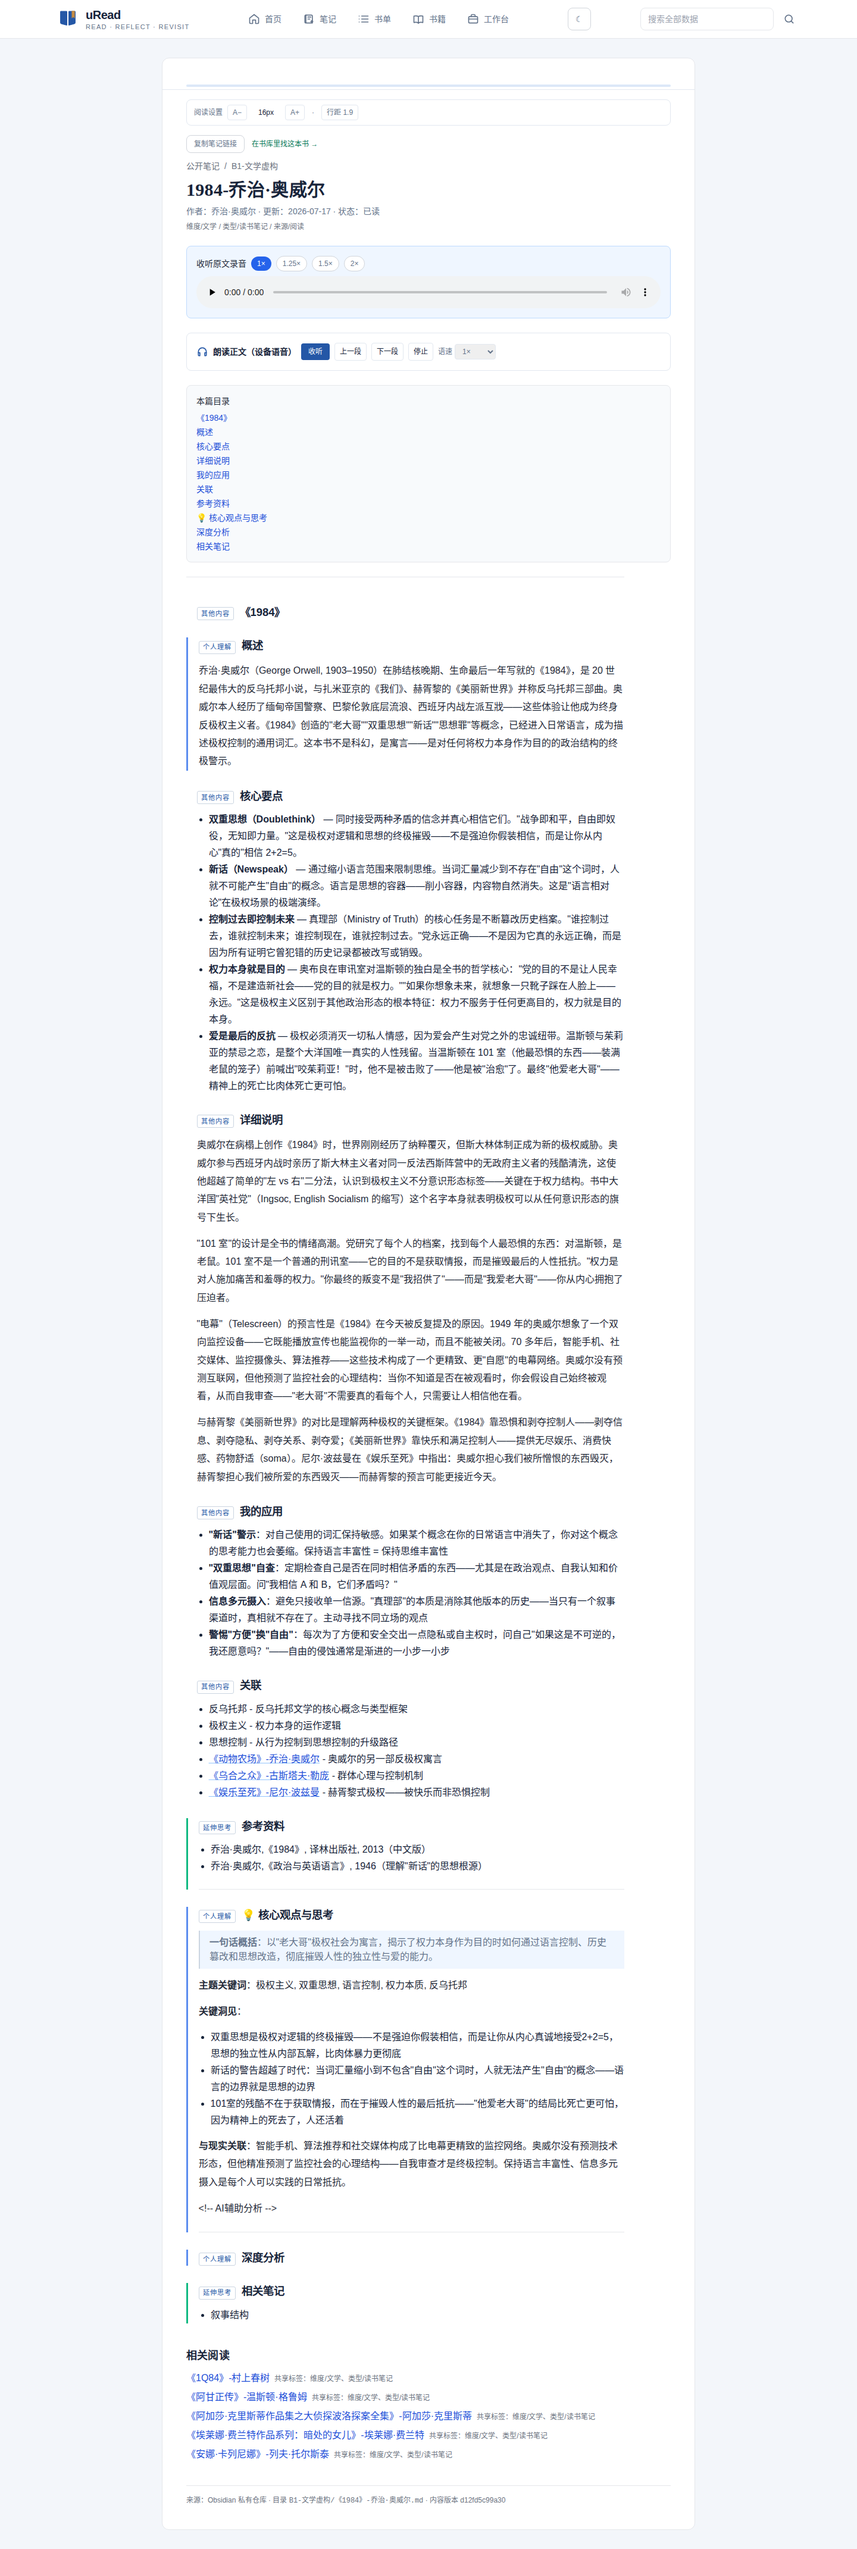
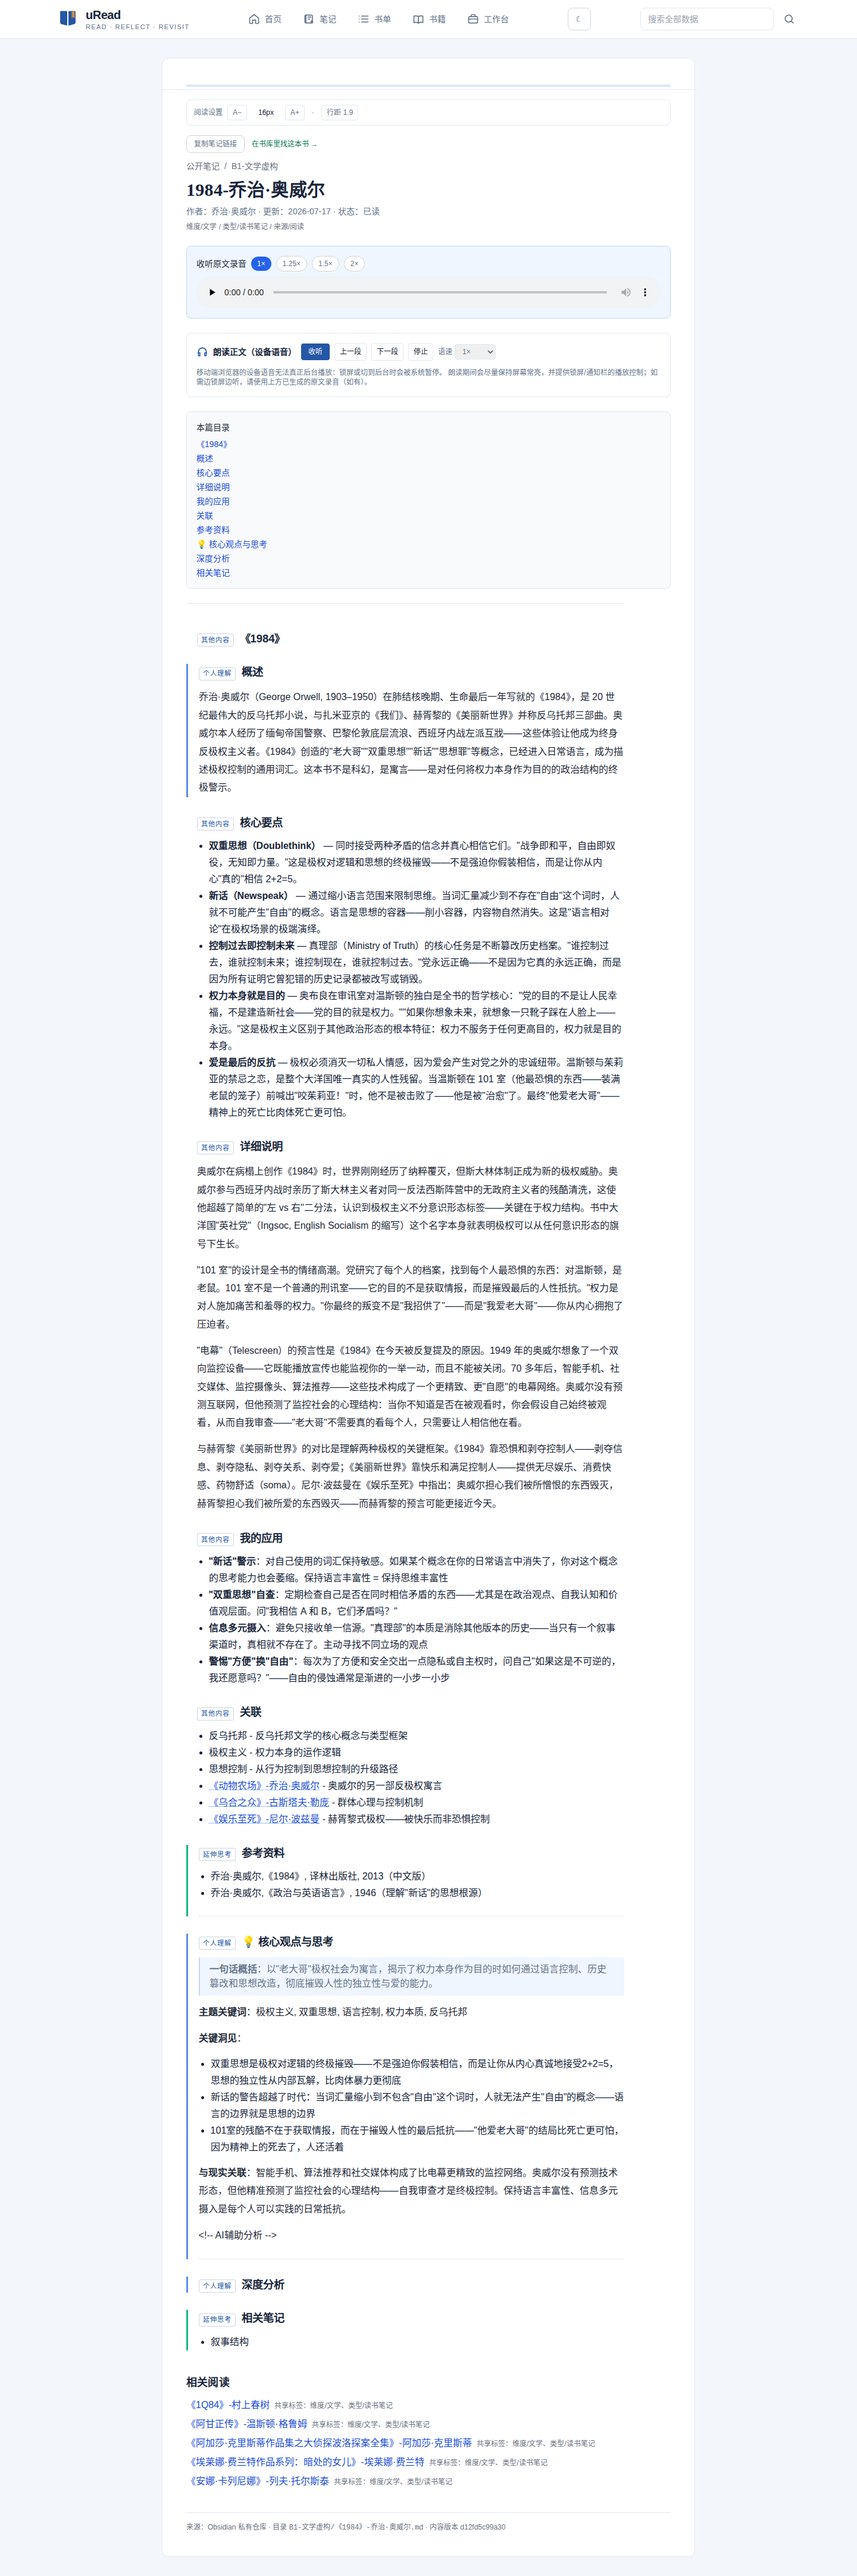
fix: 暗色阅读补齐深色映射；朗读申请屏幕常亮与媒体会话控制

Changed region(s): [[0.2188, 0.0311, 0.7188, 0.9937]]

diff --git a/src/hooks/useSpeechPlayer.ts b/src/hooks/useSpeechPlayer.ts
@@ -6,27 +6,135 @@ import { NativeSpeechEngine } from '../services/speech/NativeSpeechEngine';
 const KEY = 'uread:listen:settings:v1';
 
 interface Settings { rate: number; voice: string; }
+type WakeLockLike = { release: () => Promise<void>; addEventListener?: (type: string, listener: () => void) => void };
+type PlayerState = 'idle' | 'playing' | 'paused' | 'completed' | 'error';
 
-export function useSpeechPlayer(body: string, contentKey: string) {
+export function useSpeechPlayer(body: string, contentKey: string, title = '') {
   const [capabilities] = useState<SpeechCapabilities>(() => detectSpeechCapabilities());
   const [settings, setSettings] = useState<Settings>(() => {
     try { return { rate: 1, voice: '', ...JSON.parse(localStorage.getItem(KEY) ?? '{}') }; }
     catch { return { rate: 1, voice: '' }; }
   });
-  const [state, setState] = useState<'idle' | 'playing' | 'paused' | 'completed' | 'error'>('idle');
+  const [state, setState] = useState<PlayerState>('idle');
   const [segment, setSegment] = useState<SpeechSegment | null>(null);
   const [error, setError] = useState('');
   const engineRef = useRef<NativeSpeechEngine | null>(null);
+  const wakeLockRef = useRef<WakeLockLike | null>(null);
+  const playingRef = useRef(false);
   const segments = useMemo(() => segmentForSpeech(body), [body]);
 
   useEffect(() => {
     localStorage.setItem(KEY, JSON.stringify(settings));
   }, [settings]);
 
+  const releaseWakeLock = useCallback(() => {
+    const lock = wakeLockRef.current;
+    wakeLockRef.current = null;
+    if (lock) void lock.release().catch(() => undefined);
+  }, []);
+
+  /**
+   * Web Speech API 在移动端锁屏 / 切后台后会被系统暂停。
+   * 朗读期间申请屏幕常亮：这不是「真正的后台音频」，但能避免一锁屏就停。
+   * 页面被隐藏时浏览器会自动释放 wake lock，回到前台时再申请一次。
+   */
+  const acquireWakeLock = useCallback(async () => {
+    const nav = navigator as Navigator & {
+      wakeLock?: { request: (type: 'screen') => Promise<WakeLockLike> };
+    };
+    if (!nav.wakeLock || wakeLockRef.current) return;
+    try {
+      const lock = await nav.wakeLock.request('screen');
+      wakeLockRef.current = lock;
+      lock.addEventListener?.('release', () => {
+        if (wakeLockRef.current === lock) wakeLockRef.current = null;
+      });
+    } catch {
+      // 隐私模式 / 用户拒绝 / 不支持：不影响朗读本身。
+    }
+  }, []);
+
+  const setMediaState = useCallback((next: PlayerState, activeTitle: string) => {
+    const session = navigator.mediaSession;
+    if (!session) return;
+    try {
+      session.playbackState = next === 'playing' ? 'playing' : next === 'paused' ? 'paused' : 'none';
+    } catch {
+      /* 部分浏览器没有 playbackState */
+    }
+    if (next !== 'idle' && typeof MediaMetadata !== 'undefined') {
+      try {
+        session.metadata = new MediaMetadata({
+          title: activeTitle || 'uRead 朗读',
+          artist: 'uRead · 设备语音朗读',
+          album: 'READ · REFLECT · REVISIT',
+        });
+      } catch {
+        /* metadata 不是必需 */
+      }
+    }
+  }, []);
+
+  const pause = useCallback(() => {
+    engineRef.current?.pause();
+    playingRef.current = false;
+    releaseWakeLock();
+    setMediaState('paused', title);
+  }, [releaseWakeLock, setMediaState, title]);
+
+  const resume = useCallback(() => {
+    engineRef.current?.resume();
+    playingRef.current = true;
+    void acquireWakeLock();
+    setMediaState('playing', title);
+  }, [acquireWakeLock, setMediaState, title]);
+
+  const stop = useCallback(() => {
+    engineRef.current?.stop();
+    playingRef.current = false;
+    releaseWakeLock();
+    setMediaState('idle', title);
+    setState('idle');
+    setSegment(null);
+  }, [releaseWakeLock, setMediaState, title]);
+
+  const next = useCallback(() => engineRef.current?.next(), []);
+  const previous = useCallback(() => engineRef.current?.previous(), []);
+
+  // 锁屏 / 通知栏控制：让暂停、继续、上下段不必回到页面里点。
+  useEffect(() => {
+    const session = navigator.mediaSession;
+    if (!session) return;
+    const actions: Array<[MediaSessionAction, MediaSessionActionHandler]> = [
+      ['play', () => resume()],
+      ['pause', () => pause()],
+      ['stop', () => stop()],
+      ['previoustrack', () => previous()],
+      ['nexttrack', () => next()],
+    ];
+    for (const [action, handler] of actions) {
+      try { session.setActionHandler(action, handler); } catch { /* 不支持的 action 忽略 */ }
+    }
+    return () => {
+      for (const [action] of actions) {
+        try { session.setActionHandler(action, null); } catch { /* 同上 */ }
+      }
+    };
+  }, [next, pause, previous, resume, stop]);
+
+  useEffect(() => {
+    const onVisible = () => {
+      if (document.visibilityState === 'visible' && playingRef.current) void acquireWakeLock();
+    };
+    document.addEventListener('visibilitychange', onVisible);
+    return () => document.removeEventListener('visibilitychange', onVisible);
+  }, [acquireWakeLock]);
+
   useEffect(() => () => {
     engineRef.current?.stop();
     engineRef.current = null;
-  }, [contentKey]);
+    releaseWakeLock();
+  }, [contentKey, releaseWakeLock]);
 
   const ensureEngine = useCallback(() => {
     if (!engineRef.current && capabilities.supported && typeof window !== 'undefined') {
@@ -41,17 +149,21 @@ export function useSpeechPlayer(body: string, contentKey: string) {
     if (!engine) { setError('当前浏览器不支持设备语音朗读'); setState('error'); return; }
     engine.configure(settings);
     engine.play(segments, fromIndex, {
-      onSegment: (next) => setSegment(next),
-      onState: (next) => setState(next),
+      onSegment: (nextSegment) => setSegment(nextSegment),
+      onState: (nextState) => {
+        setState(nextState);
+        playingRef.current = nextState === 'playing';
+        if (nextState === 'playing') {
+          void acquireWakeLock();
+          setMediaState('playing', title);
+        } else {
+          releaseWakeLock();
+          setMediaState(nextState, title);
+        }
+      },
       onError: (message) => { setError(message); setState('error'); },
     });
-  }, [ensureEngine, segments, settings]);
-
-  const pause = useCallback(() => engineRef.current?.pause(), []);
-  const resume = useCallback(() => engineRef.current?.resume(), []);
-  const stop = useCallback(() => { engineRef.current?.stop(); setState('idle'); setSegment(null); }, []);
-  const next = useCallback(() => engineRef.current?.next(), []);
-  const previous = useCallback(() => engineRef.current?.previous(), []);
+  }, [acquireWakeLock, ensureEngine, releaseWakeLock, segments, setMediaState, settings, title]);
 
   return {
     capabilities, settings, setSettings, state, segment, error, segments,

diff --git a/src/index.css b/src/index.css
@@ -136,6 +136,64 @@ body { background-color: var(--theme-page) !important; color: var(--theme-text) 
 .text-gray-600 { color: var(--theme-muted) !important; }
 .border-gray-200 { border-color: var(--theme-line) !important; }
 
+/* 暗色阅读：上一段只覆盖少数几个类，自定义色与常见浅色底仍是白块。
+   主题真相仍是 <meta name="color-scheme">，这里只做 CSS 映射，不加 class/data 属性。 */
+:root:has(> head > meta[name="color-scheme"][content="dark"]) {
+  --brand: #7FB0FF;
+  --ink: #F1F5F9;
+  --body: #CBD5E1;
+  --accent: #E3B072;
+  --page: #0F172A;
+  --line: #334155;
+  --surface: #1E293B;
+  --mist: #16233A;
+
+  .bg-surface,
+  .bg-white,
+  [class*='bg-white'],
+  .bg-gray-50,
+  .bg-gray-100,
+  .bg-mist\/40,
+  .bg-blue-50,
+  .bg-violet-50,
+  .bg-amber-50,
+  .bg-green-50,
+  .bg-red-50 { background-color: #1E293B !important; }
+
+  .bg-page { background-color: #0F172A !important; }
+
+  .text-navy,
+  .text-ink,
+  .text-body,
+  .text-gray-900,
+  .text-gray-800,
+  .text-gray-700,
+  .text-gray-600 { color: #E2E8F0 !important; }
+
+  .text-muted,
+  .text-gray-500 { color: #94A3B8 !important; }
+
+  .text-brand,
+  .text-blue-700,
+  .text-blue-600,
+  .text-violet-700 { color: #8FBCFF !important; }
+
+  .border-border,
+  .border-gray-200,
+  .border-gray-300,
+  .border-mist,
+  .border-blue-200,
+  .border-amber-200,
+  .border-green-200,
+  .border-red-200 { border-color: #334155 !important; }
+
+  .note-section-excerpt { background: #232A36 !important; }
+  .note-section-heading { color: #F1F5F9 !important; }
+  .note-section-label { border-color: #475569 !important; }
+  .note-article blockquote { color: #CBD5E1 !important; border-color: #475569 !important; }
+  ::selection { background: #1E40AF; color: #F1F5F9; }
+}
+
 /* Phase 3 阅读排版：按原文标题分区，原文摘录与个人理解视觉区分，不改变语义。 */
 .note-article { max-width: 46rem; font-size: var(--note-font-size, 1rem); }
 .note-section { margin: 1.8rem 0; }

diff --git a/tests/e2e/speech-background.spec.ts b/tests/e2e/speech-background.spec.ts
@@ -1,0 +1,47 @@
+/** 朗读后台能力：屏幕常亮请求 + 媒体会话控制，避免锁屏即停。 */
+import { expect, test } from '@playwright/test';
+
+test('朗读时申请屏幕常亮并注册锁屏播放控制', async ({ page }) => {
+  await page.addInitScript(() => {
+    const store = { requests: 0, released: 0, actions: [] as string[] };
+    (window as unknown as { __speech: typeof store }).__speech = store;
+    Object.defineProperty(navigator, 'wakeLock', {
+      configurable: true,
+      value: {
+        request: async () => {
+          store.requests += 1;
+          return {
+            release: async () => { store.released += 1; },
+            addEventListener: () => undefined,
+          };
+        },
+      },
+    });
+    Object.defineProperty(navigator, 'mediaSession', {
+      configurable: true,
+      value: {
+        playbackState: 'none',
+        metadata: null,
+        setActionHandler: (action: string) => { store.actions.push(action); },
+      },
+    });
+  });
+
+  await page.goto('read');
+  await page.locator('a[href*="/read/"]').first().click();
+  await expect(page.locator('article')).toBeVisible();
+  await page.getByRole('button', { name: '收听' }).click();
+
+  await expect.poll(() => page.evaluate(() => (window as unknown as { __speech: { requests: number } }).__speech.requests))
+    .toBeGreaterThan(0);
+  const actions = await page.evaluate(() => (window as unknown as { __speech: { actions: string[] } }).__speech.actions);
+  expect(actions).toContain('play');
+  expect(actions).toContain('pause');
+  expect(actions).toContain('stop');
+  expect(actions).toContain('nexttrack');
+  expect(actions).toContain('previoustrack');
+
+  await page.getByRole('button', { name: '停止' }).click();
+  await expect.poll(() => page.evaluate(() => (window as unknown as { __speech: { released: number } }).__speech.released))
+    .toBeGreaterThan(0);
+});

diff --git a/tests/e2e/dark-mode.spec.ts b/tests/e2e/dark-mode.spec.ts
@@ -1,0 +1,28 @@
+/** 暗色阅读：主题真相是 meta，所有页面都不能留下刺眼的白色卡片。 */
+import { expect, test } from '@playwright/test';
+
+const nearWhiteSurfaces = () =>
+  // 在浏览器里统计可见的近白色背景，避免把 Tailwind 类名当样式断言。
+  [...document.querySelectorAll('main *, nav *, article *, aside *')]
+    .filter((element) => element.getClientRects().length > 0)
+    .filter((element) => /^rgb\(2[4-5]\d,\s*2[4-5]\d,\s*2[4-5]\d\)$/.test(getComputedStyle(element).backgroundColor))
+    .length;
+
+test('暗色模式：主站与书页都无残留白块，刷新后保留', async ({ page }) => {
+  await page.goto('./');
+  await expect(page.getByText(/篇读书笔记/).first()).toBeVisible();
+  await page.locator('button[aria-label="切换到夜间模式"]:visible').first().click();
+  await expect(page.locator('meta[name="color-scheme"]')).toHaveAttribute('content', 'dark');
+  // 卡片带 transition，过渡结束前会读到中间帧，先等它稳定。
+  await page.waitForTimeout(400);
+  expect(await page.evaluate(nearWhiteSurfaces)).toBe(0);
+  await expect(page.locator('body')).toHaveCSS('background-color', 'rgb(15, 23, 42)');
+
+  await page.reload();
+  await expect(page.locator('meta[name="color-scheme"]')).toHaveAttribute('content', 'dark');
+  await expect(page.locator('body')).toHaveCSS('background-color', 'rgb(15, 23, 42)');
+
+  await page.goto('books/');
+  await expect(page.locator('body')).toHaveCSS('background-color', 'rgb(15, 23, 42)');
+  expect(await page.evaluate(nearWhiteSurfaces)).toBe(0);
+});

diff --git a/src/views/PublicNoteDetailView.tsx b/src/views/PublicNoteDetailView.tsx
@@ -71,7 +71,7 @@ const PublicNoteDetailView: React.FC = () => {
   }, [reading]);
 
   const progressKey = note ? `uread:audio:${note.content_hash}` : '';
-  const player = useSpeechPlayer(note?.body ?? '', note?.slug ?? '');
+  const player = useSpeechPlayer(note?.body ?? '', note?.slug ?? '', note?.title ?? '');
   useEffect(() => {
     if (!note) return;
     document.title = `${note.title} · uRead 读书笔记`;
@@ -283,6 +283,10 @@ const PublicNoteDetailView: React.FC = () => {
         {!player.capabilities.supported ? (
           <p className="mt-2 text-xs text-muted">当前浏览器不支持设备语音朗读，建议使用 Chrome / Edge / Safari。</p>
         ) : null}
+        <p className="mt-3 text-xs text-muted">
+          移动端浏览器的设备语音无法真正后台播放：锁屏或切到后台时会被系统暂停。
+          朗读期间会尽量保持屏幕常亮，并提供锁屏/通知栏的播放控制；如需边锁屏边听，请使用上方已生成的原文录音（如有）。
+        </p>
       </section>
 
       {headings.length > 1 ? (

diff --git a/CHANGELOG.md b/CHANGELOG.md
@@ -2,6 +2,13 @@
 
 本文件遵循 [Keep a Changelog](https://keepachangelog.com/zh-CN/1.1.0/)，版本号遵循语义化版本。
 
+## [0.34.2] - 2026-11-23
+
+### 体验修复
+- 暗色阅读：补齐 `bg-surface` / `bg-gray-100` / 品牌色文字与边框等映射，主站与书页不再出现白色卡片；阅读分区底色一并适配。
+- 朗读正文：朗读期间申请屏幕常亮（wake lock），注册媒体会话的播放/暂停/停止/上下段锁屏控制，并说明「设备语音无法真正后台播放」这一浏览器限制；有原文录音时优先用录音后台收听。
+- 新增 E2E：暗色无白块与刷新保留、朗读时常亮请求与锁屏控制注册。
+
 ## [0.34.1] - 2026-11-23
 
 ### 内容同步

diff --git a/design-system.md b/design-system.md
@@ -1,6 +1,6 @@
 # uRead Design System（以实际代码为准）
 
-> 状态基准：2026-11-23 · 版本 0.34.1 · Content Edition
+> 状态基准：2026-11-23 · 版本 0.34.2 · Content Edition
 > 本文件只记录当前真实组件与令牌。旧版「功能堆叠 / 渐变卡片 / 瀑布流」示例已失效。
 
 ## 设计定位

diff --git a/docs/migration/reconciliation.md b/docs/migration/reconciliation.md
@@ -4,7 +4,7 @@ title: 发版内容对账
 description: "迁移前后数量、逐项哈希、深链回退与书籍索引的最终对账结果。"
 ---
 
-生成时间：2026-11-23T03:55:31.800Z
+生成时间：2026-11-23T06:27:58.568Z
 
 | 对账项 | 基线 | 当前 | 结果 |
 | --- | ---: | ---: | --- |

diff --git a/ui-ux-design-system.md b/ui-ux-design-system.md
@@ -1,6 +1,6 @@
 # uRead UI/UX 规范（实际交互版）
 
-> 状态基准：2026-11-23 · 版本 0.34.1
+> 状态基准：2026-11-23 · 版本 0.34.2
 > 本文件描述**现在能用的交互**，不是早期原型规划。
 
 ## 两种使用场景必须分开
